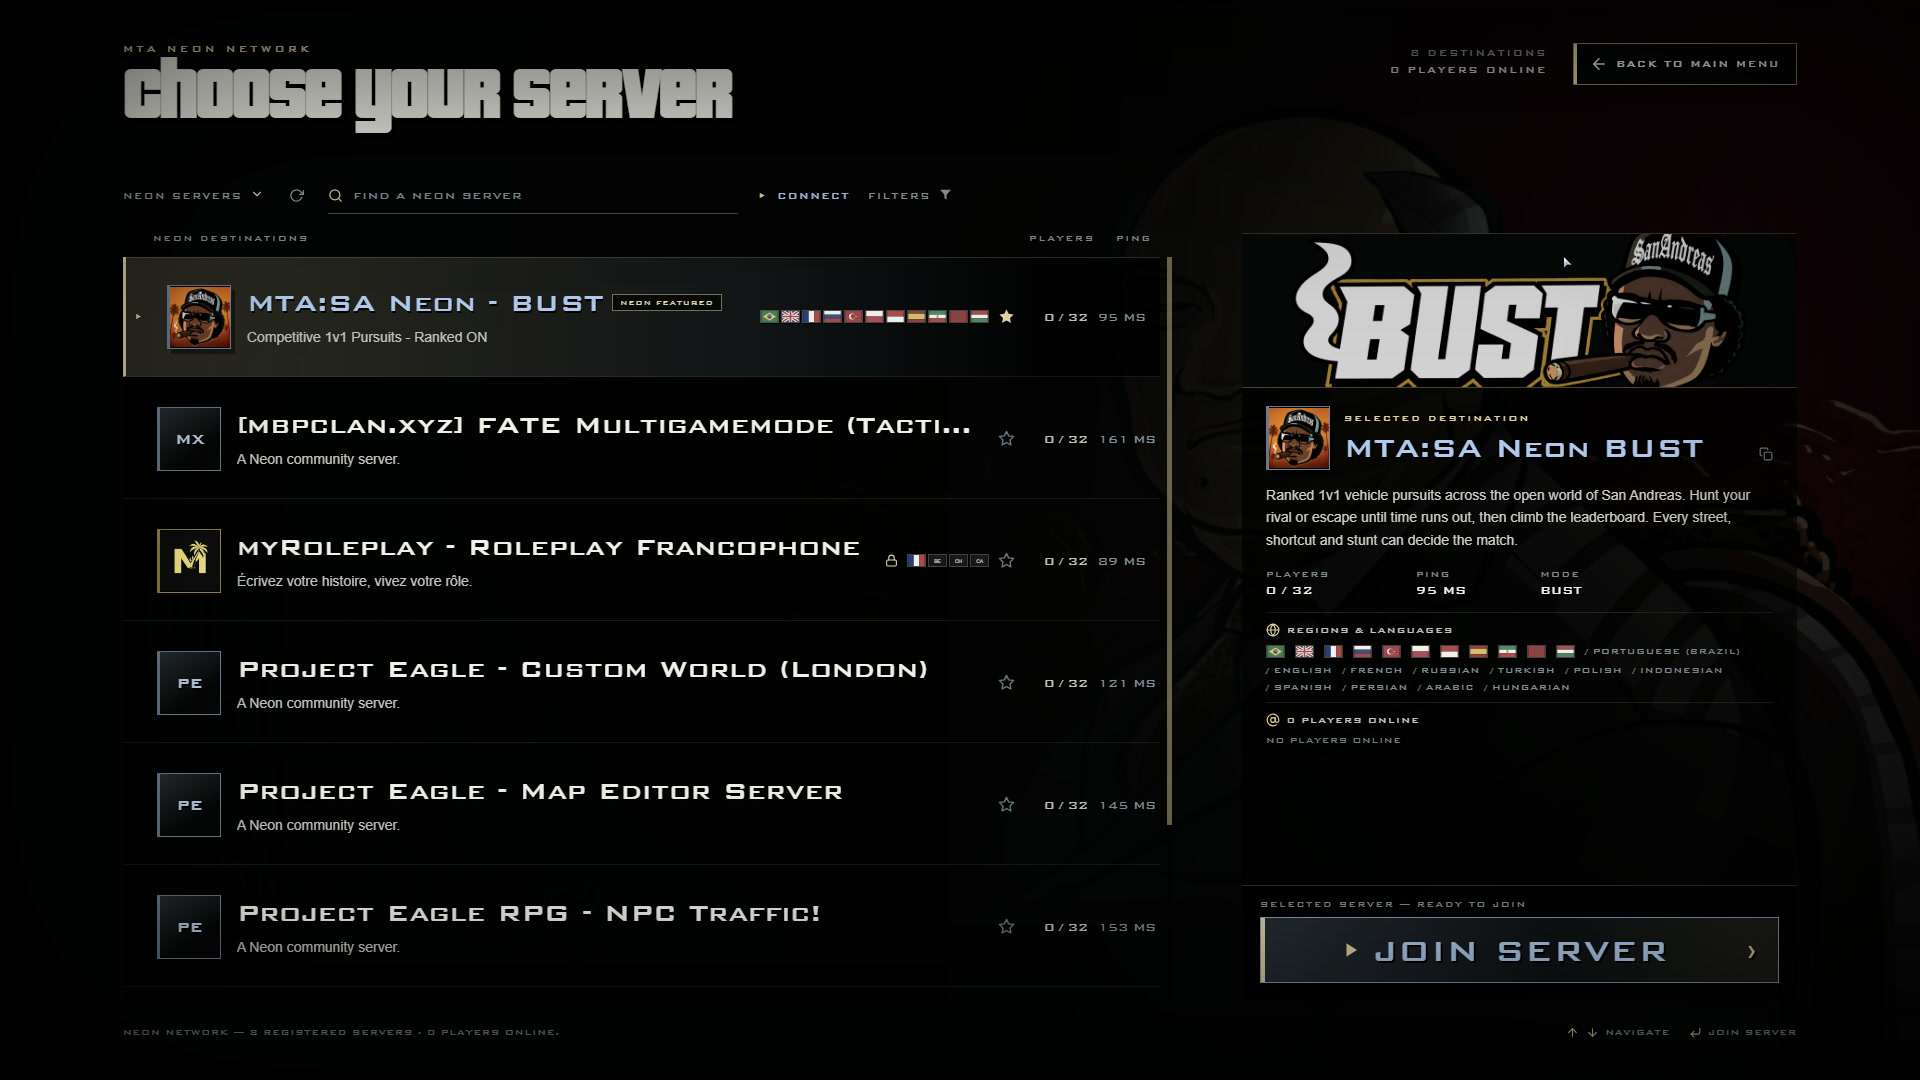
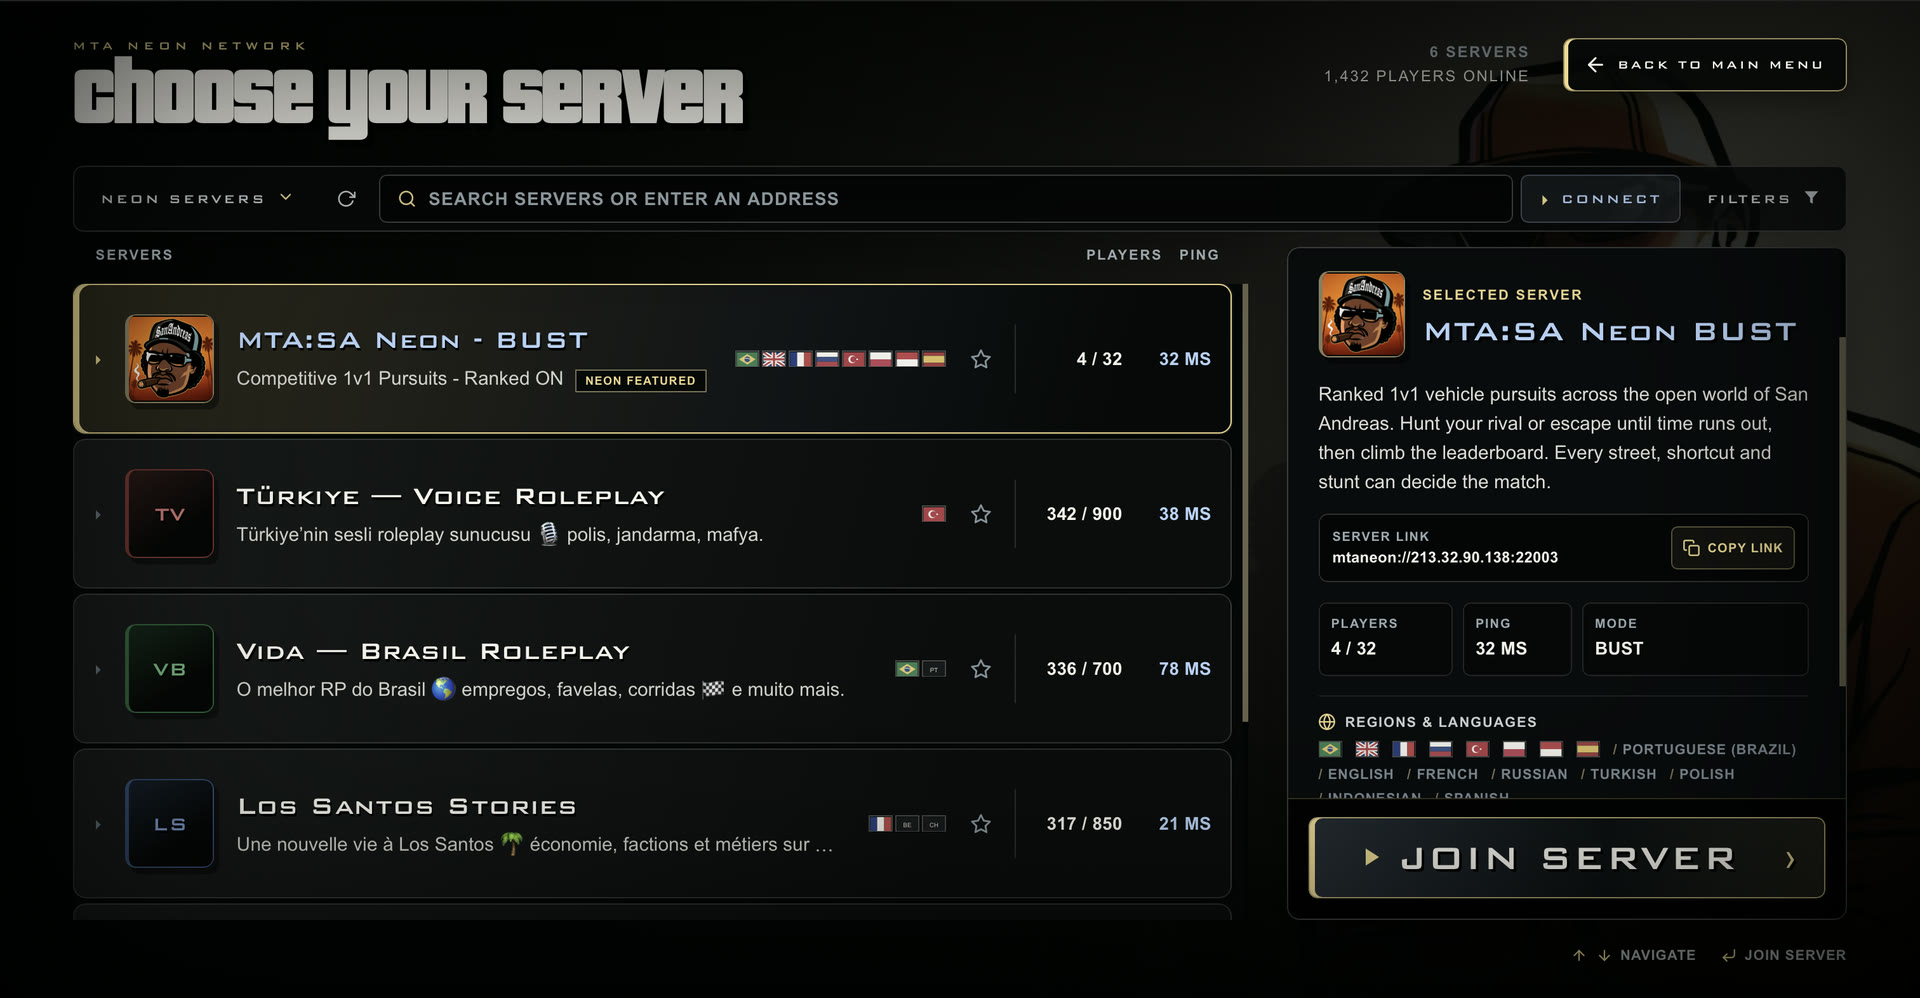
docs(neon): refresh the server browser screenshot
The browser was redesigned: a SERVERS header, a combined search and address
field, and a details panel that now carries a copyable mtaneon:// server
link. The capture also shows a populated list rather than an empty one.

Alt text updated to match the new panel.

diff --git a/web/src/content/docs/neon/client-experience.md b/web/src/content/docs/neon/client-experience.md
@@ -13,7 +13,7 @@ The server browser combines the public Neon registry with live ASE server data. 
 
 Registry artwork and metadata are optional. Downloaded assets are validated, sanitized, cached, and replaced by normal fallback presentation when unavailable. Every listed server passed the registry source-IP and ASE publication flow; that is **not** a cryptographic attestation of the server binary or its resources.
 
-![Neon server browser showing a list of community servers with flags, ping and player counts, and a details panel with artwork, description, regions and languages for the selected server](/neon-media/neon-server-browser.jpg)
+![Neon server browser listing populated community servers with flags, ping and player counts, and a details panel with description, a copyable mtaneon:// server link, regions and languages](/neon-media/neon-server-browser.jpg)
 
 ## Publish or hide a server
 
